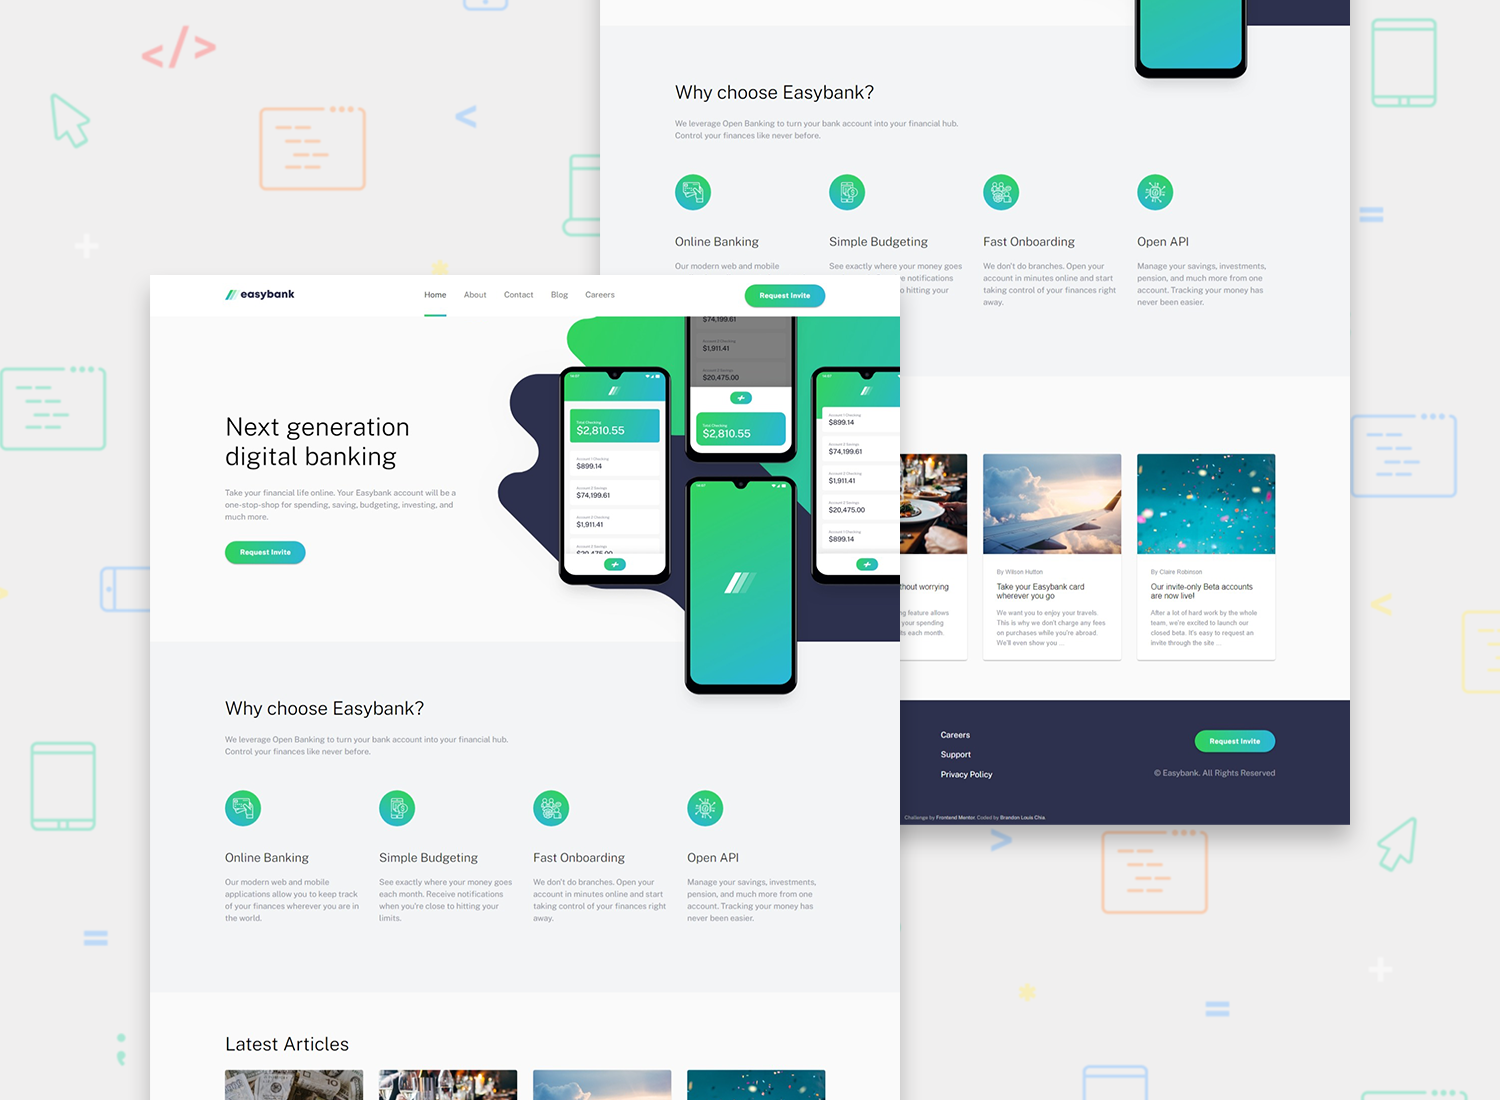
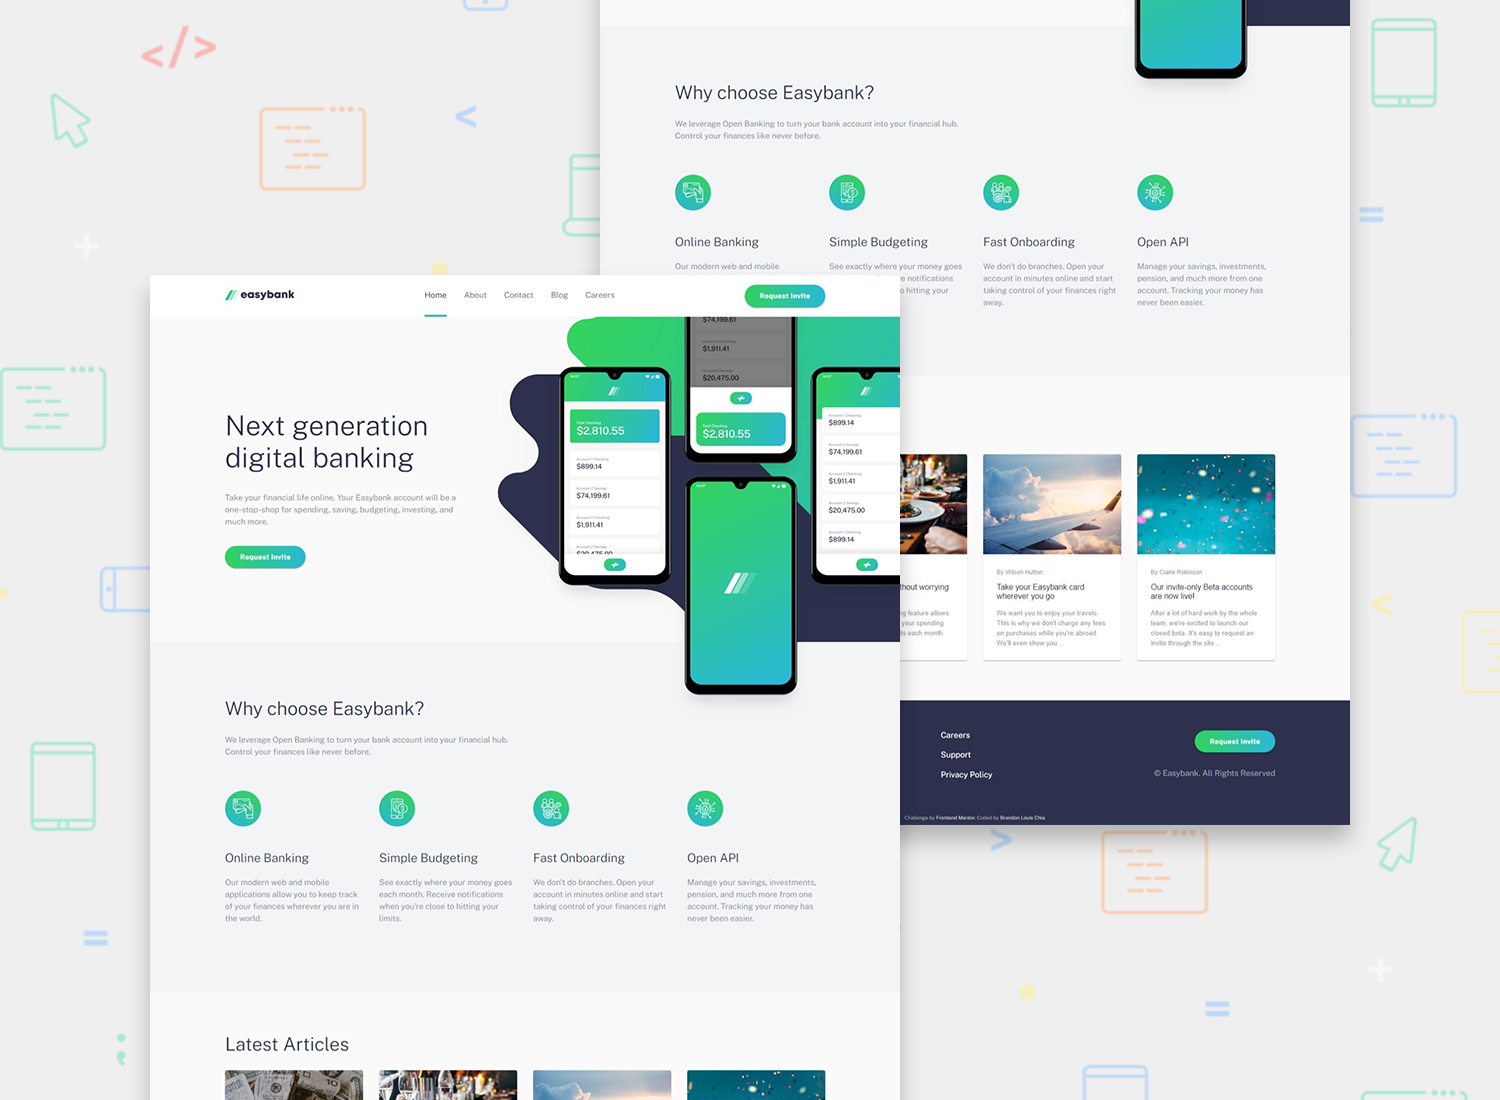
minor changes

diff --git a/fem-easybank/src/components/Home.js b/fem-easybank/src/components/Home.js
@@ -133,7 +133,7 @@ export default function Home() {
                 </Box>
 
                 <Box sx={{display:'flex', flexDirection:'column', alignItems:'center', padding:'0 7% 80px', textAlign:'center', backgroundColor:'#fafafa'}}>
-                    <h2 style={{fontSize:'42px'}}>Next generation digital banking</h2>
+                    <h2 style={{fontSize:'45px'}}>Next generation digital banking</h2>
                     <p style={{marginTop:'0'}}>Take your financial life online. Your Easybank account will be a one-stop-shop for spending, saving, budgeting, investing, and much more.</p>
                     <Button variant="contained" sx={{marginTop:'20px'}}>Request Invite</Button>
                 </Box>

diff --git a/fem-easybank/src/App.css b/fem-easybank/src/App.css
@@ -25,10 +25,11 @@ p {
 
 h1, h2, h3 {
     font-weight: 300;
+    color: #2d314d;
 }
 
 h1 {
-    font-size: 50px;
+    font-size: 55px;
 }
 
 h2 {
